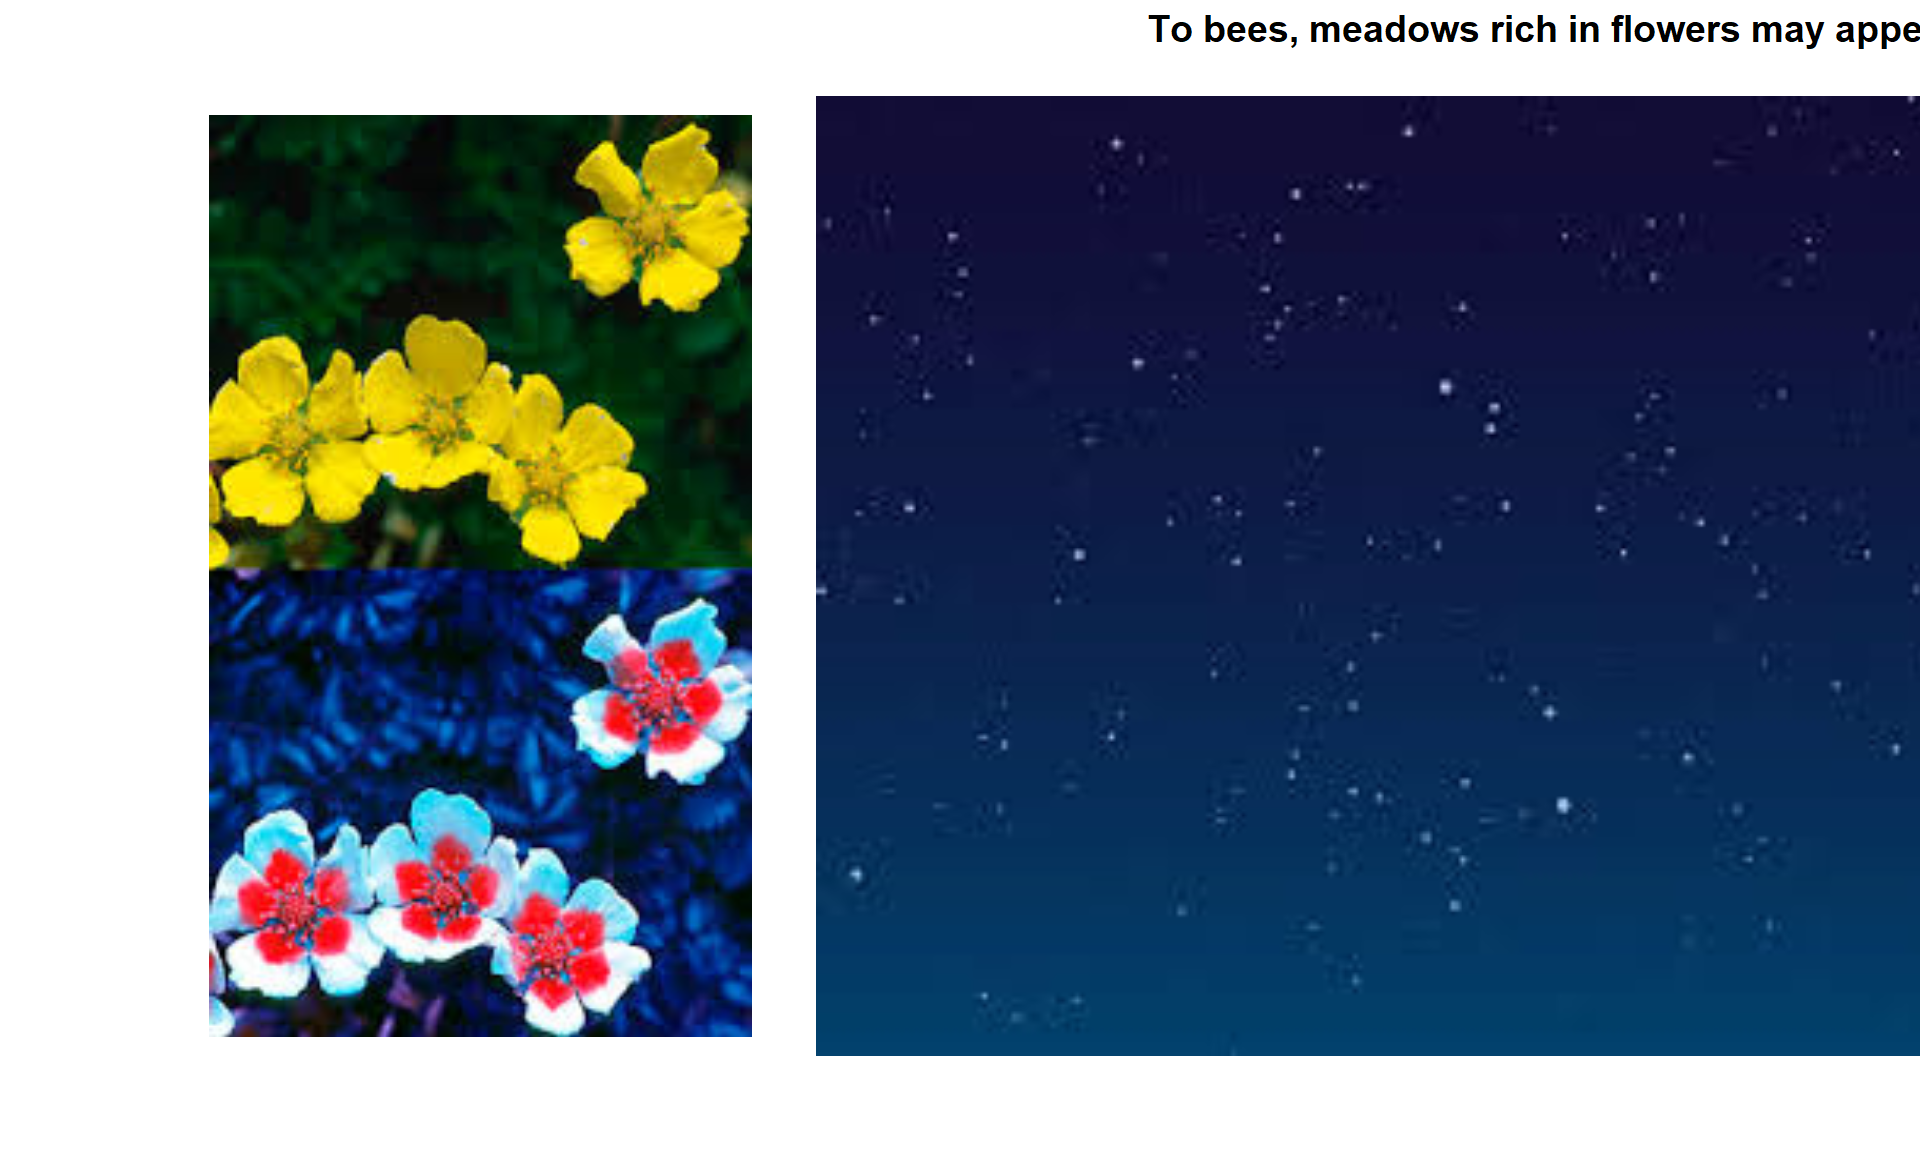
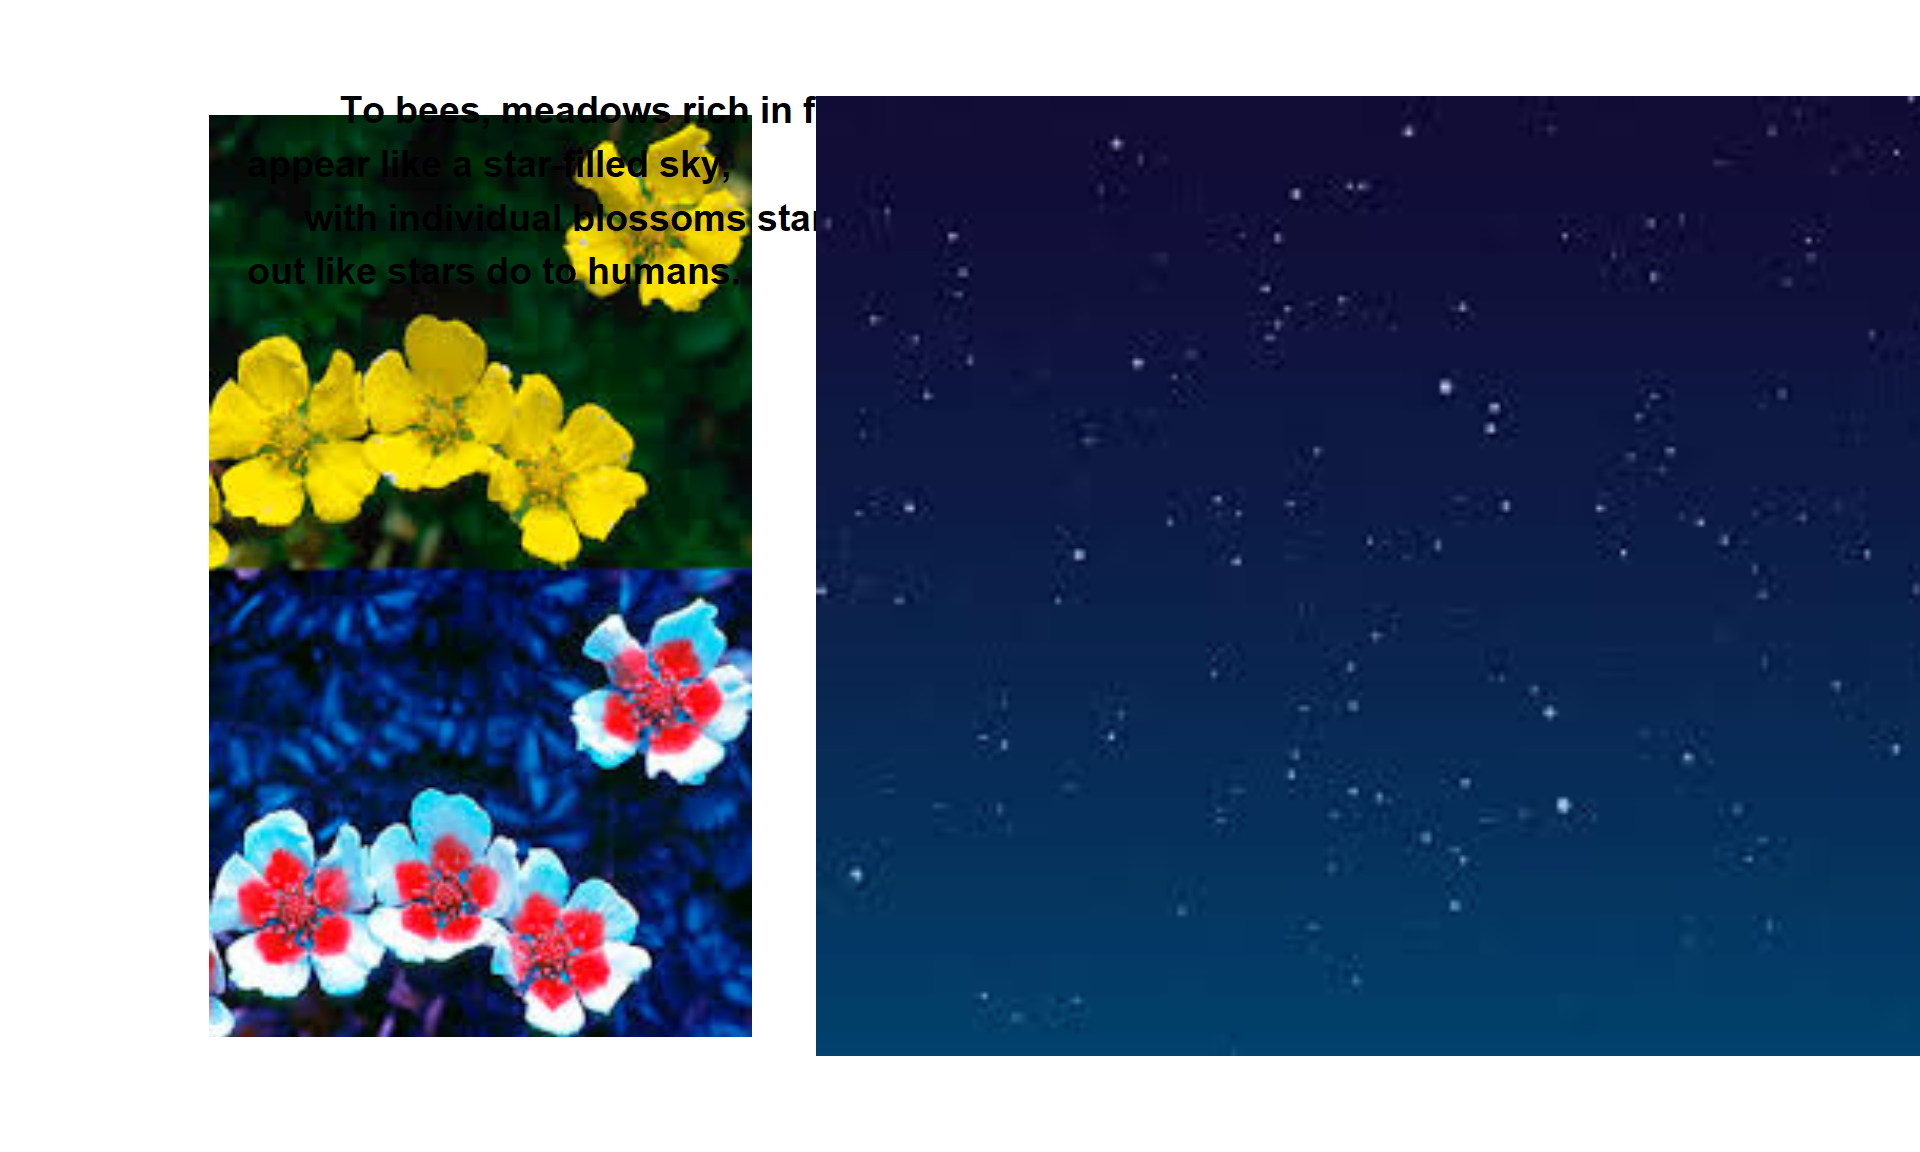
fixes on figures and captions in introquant tutorial.

Changed region(s): [[0.125, 0.0625, 0.4375, 0.25], [0.5938, 0.0, 1.0, 0.0625]]

diff --git a/docs/tutorials/introquant/introquant.html b/docs/tutorials/introquant/introquant.html
@@ -1255,6 +1255,15 @@ Try This!
 <section id="the-thatcher-illusion" class="level3">
 <h3 class="anchored" data-anchor-id="the-thatcher-illusion">The Thatcher Illusion</h3>
 <p><strong>Instructions</strong> Look at these upside-down faces. Does one look odd?</p>
+<div class="cell">
+<div class="cell-output-display">
+<div>
+<figure class="figure">
+<p><img src="introquant_files/figure-html/thatcher-up-1.png" class="img-fluid figure-img" width="480"></p>
+</figure>
+</div>
+</div>
+</div>
 <p><strong>Probably the right image seems slightly strange.</strong></p>
 <p><strong>Now look at them right-side up</strong></p>
 <div class="cell">
